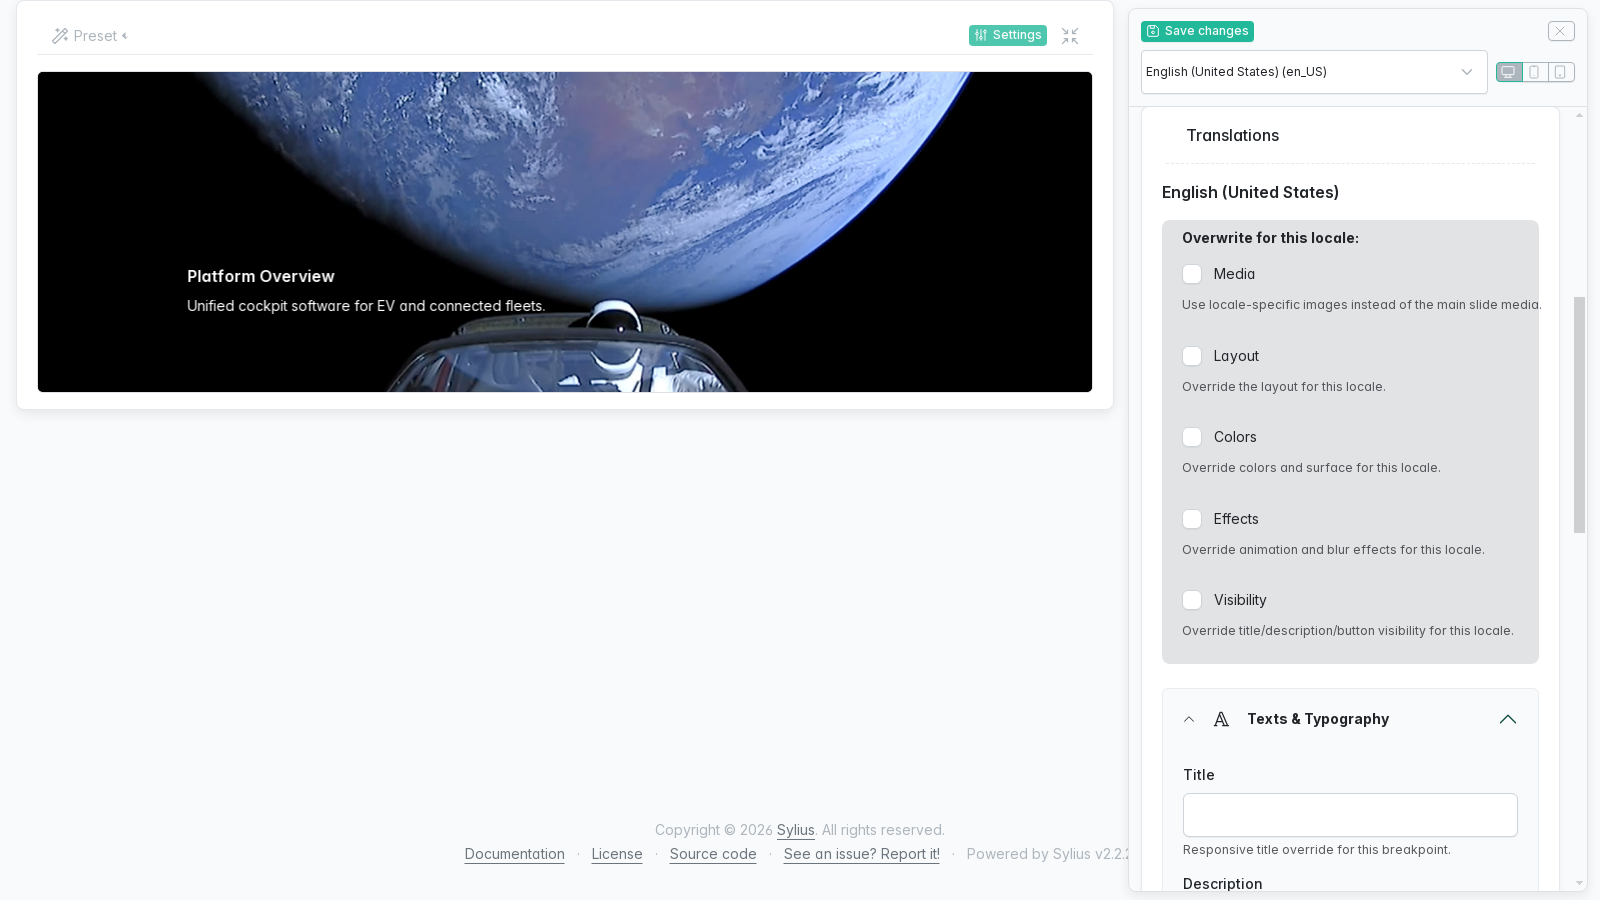
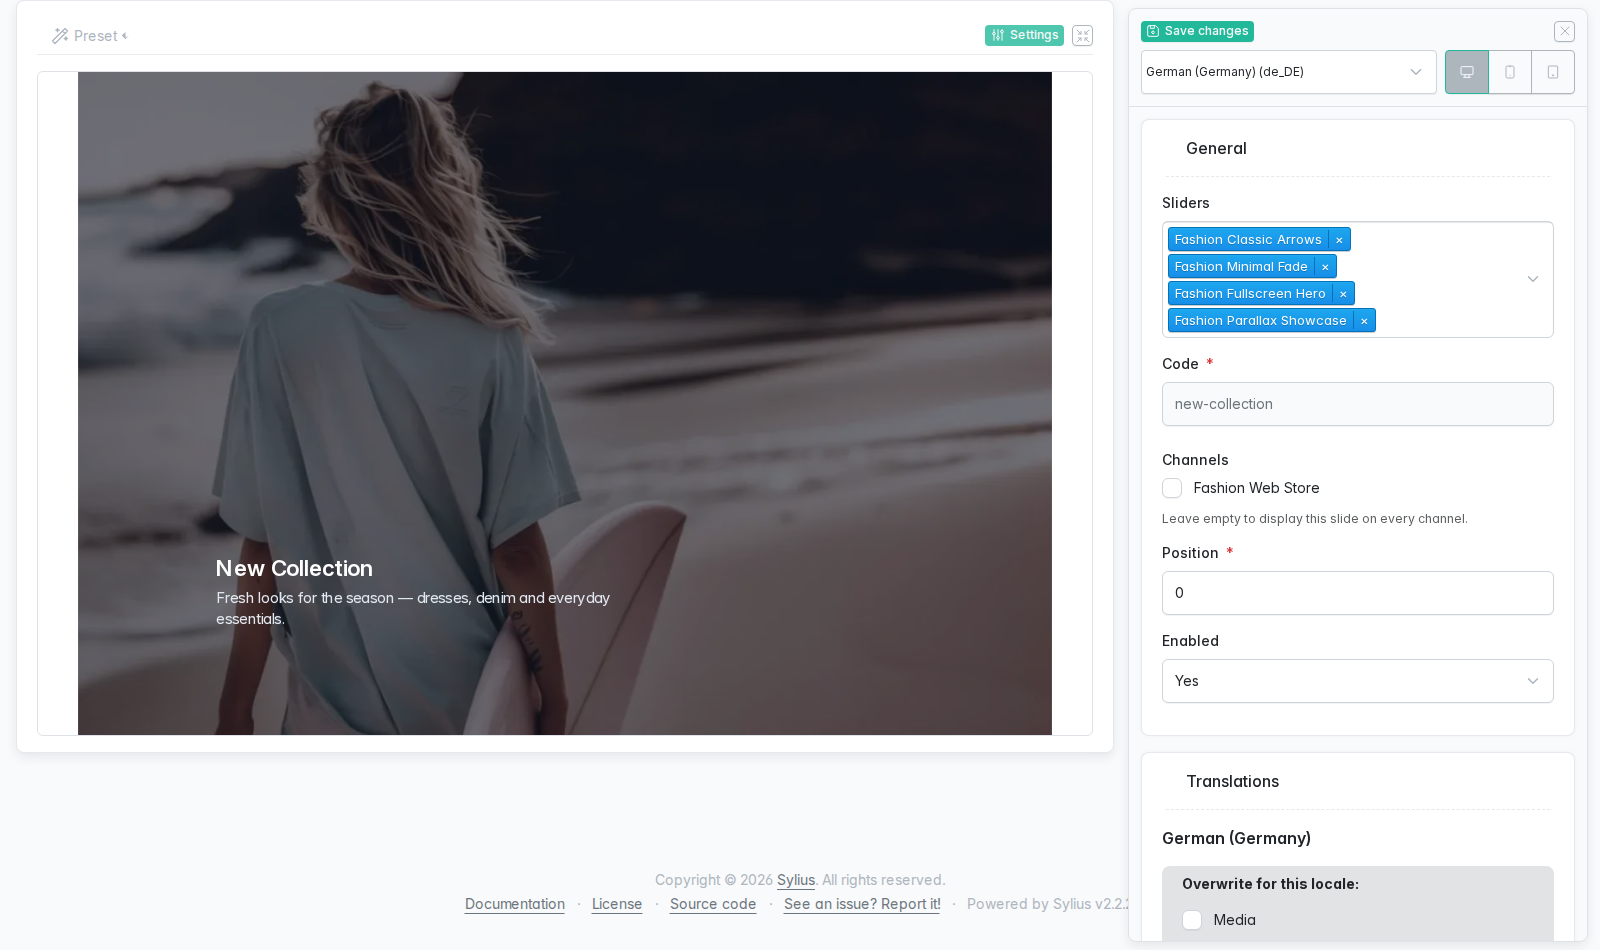
docs: generate every screenshot and GIF from Playwright
The committed doc media was hand-captured, which is why
docs/SCREENSHOTS.md referenced an `admin-slide-edit-modal.png` that had
never been taken. `make docs-media` now regenerates all 13 screenshots
and all 7 GIFs from tests/e2e/docs/*.docs.spec.ts, under fixed
conditions: APP_ENV=prod (no web debug toolbar), demo fixtures loaded,
pinned viewports, en-US, UTC, animations frozen.

GIFs are assembled by ffmpeg from explicit screenshot frames rather than
recorded as video: Playwright's .webm frame timing varies run to run, so
the same scripted interaction produced a different file every time —
useless for an asset that should only change when the UI does.
palettegen/paletteuse gives a per-clip 256-colour palette; without it a
screenshot-heavy UI bands badly.

Two traps worth naming, both now handled in the helper rather than left
for the next person to rediscover:

- ffmpeg's image2 demuxer SILENTLY DROPS frames whose dimensions differ
  from the first. A breakpoint GIF that called page.setViewportSize()
  produced a 3-frame file with no error. recordGif() now fails loudly on
  a size mismatch, and responsive-breakpoints.gif simulates the device
  width by resizing an iframe inside a fixed viewport instead.
- The Sylius admin brand image 404s in this stack (the test
  application's webpack config emits no build/admin/images/), putting a
  broken-image glyph in every admin screenshot. Images that failed to
[…]

diff --git a/tests/e2e/docs/admin.docs.spec.ts b/tests/e2e/docs/admin.docs.spec.ts
@@ -1,6 +1,6 @@
 import { expect, test } from '@playwright/test';
 
-import { loginAsAdmin, slideIdByCode, sliderIdByCode } from '../support/admin';
+import { loginAsAdmin, openSettingsDrawer, openSettingsSection, slideIdByCode, sliderIdByCode } from '../support/admin';
 import { SLIDERS, SLIDES, routes } from '../support/data';
 import { freezeMotion, hold, recordGif, shot } from './support/media';
 
@@ -55,7 +55,7 @@ test.describe('docs media: admin', () => {
         await shot(page.locator('.vanssa-preview-panel').first(), 'admin-slider-preview-panel');
 
         // Full workspace with the settings drawer open — the documented default view.
-        await page.getByRole('button', { name: 'Settings' }).first().click();
+        await openSettingsDrawer(page);
         await expect(page.locator('.vanssa-workspace')).toBeVisible();
         await page.waitForTimeout(400);
         await shot(page, 'admin-slider-edit-homepage-main');
@@ -64,10 +64,9 @@ test.describe('docs media: admin', () => {
     test('add-slides browser modal', async ({ page }) => {
         const id = await sliderIdByCode(page, SLIDERS.classicArrows);
         await page.goto(routes.adminSliderEdit(id));
-        await page.getByRole('button', { name: 'Settings' }).first().click();
+        await openSettingsDrawer(page);
 
-        const slidesSection = page.getByRole('button', { name: /Slides/i }).last();
-        await slidesSection.click();
+        await openSettingsSection(page, 'Slides');
 
         const addButton = page.getByRole('button', { name: /^Add/ }).first();
         await expect(addButton).toBeVisible();
@@ -93,7 +92,7 @@ test.describe('docs media: admin', () => {
         await shot(modal, 'admin-slide-edit-modal');
     });
 
-    test('slide edit page: preview, media settings, translations', async ({ page }) => {
+    test('slide edit page: preview and per-breakpoint media settings', async ({ page }) => {
         const id = await slideIdByCode(page, SLIDES.newCollection);
         await page.goto(routes.adminSlideEdit(id));
 
@@ -101,22 +100,27 @@ test.describe('docs media: admin', () => {
         await freezeMotion(page);
         await shot(page.locator('.vanssa-preview-panel').first(), 'admin-slide-live-preview');
 
-        await page.getByRole('button', { name: 'Settings' }).first().click();
-        await page.waitForTimeout(400);
-
-        const mediaSection = page.getByRole('button', { name: /Media|Settings/i }).first();
-        if (await mediaSection.isVisible()) {
-            await mediaSection.click();
-            await page.waitForTimeout(300);
-        }
+        await openSettingsDrawer(page);
+        await expect(page.getByText('Media & Settings').first()).toBeVisible();
         await shot(page, 'admin-slide-media-settings');
+    });
 
-        const translations = page.getByRole('button', { name: /Translations/i }).first();
-        if (await translations.isVisible()) {
-            await translations.click();
-            await page.waitForTimeout(400);
-            await shot(page, 'admin-slide-translations');
-        }
+    test('slide edit page: per-locale translations', async ({ page }) => {
+        // The Translations card is `.d-none` until the toolbar's Language
+        // dropdown selects a locale — on edit pages the form is toolbar-driven
+        // (form_context_controller), there is no per-locale accordion
+        // (templates/admin/slide/form/sections/translations.html.twig:7-27).
+        const id = await slideIdByCode(page, SLIDES.newCollection);
+        await page.goto(routes.adminSlideEdit(id));
+        await expect(page.locator('.vanssa-workspace')).toBeVisible();
+
+        await openSettingsDrawer(page);
+        await page.getByRole('combobox', { name: 'Language' }).selectOption('de_DE');
+
+        const translations = page.locator('[data-vanssa-context-locale="de_DE"]').first();
+        await expect(translations).toBeVisible();
+        await freezeMotion(page);
+        await shot(page, 'admin-slide-translations');
     });
 
     test('preset gallery on the create page', async ({ page }) => {
@@ -135,20 +139,19 @@ test.describe('docs media: admin', () => {
         await expect(page.locator('.vanssa-workspace')).toBeVisible();
         await expect(page.locator(`turbo-frame#vanssa-slider-preview-frame-${id}`)).toBeVisible();
 
-        const settings = page.getByRole('button', { name: 'Settings' }).first();
-
         await recordGif(
             page,
             'admin-workspace',
             [
                 ...hold(3),
                 async () => {
-                    await settings.click();
+                    await openSettingsDrawer(page);
                     await page.waitForTimeout(500);
                 },
                 ...hold(4),
                 async () => {
-                    await settings.click();
+                    // The drawer head's own toggle, not the toolbar one.
+                    await page.getByRole('button', { name: 'Close settings' }).first().click();
                     await page.waitForTimeout(500);
                 },
                 ...hold(2),
@@ -235,8 +238,8 @@ test.describe('docs media: admin', () => {
     test('add-slides-browser.gif — attaching slides from the browser modal', async ({ page }) => {
         const id = await sliderIdByCode(page, SLIDERS.classicArrows);
         await page.goto(routes.adminSliderEdit(id));
-        await page.getByRole('button', { name: 'Settings' }).first().click();
-        await page.getByRole('button', { name: /Slides/i }).last().click();
+        await openSettingsDrawer(page);
+        await openSettingsSection(page, 'Slides');
 
         const addButton = page.getByRole('button', { name: /^Add/ }).first();
         await expect(addButton).toBeVisible();

diff --git a/tests/e2e/docs/support/media.ts b/tests/e2e/docs/support/media.ts
@@ -24,6 +24,7 @@ const FRAME_DIR = path.join(REPO_ROOT, 'var/docs-media-frames');
  * Deliberately NOT applied to the GIF generators — motion is the point there.
  */
 export async function freezeMotion(page: Page): Promise<void> {
+    await hideBrokenImages(page);
     await page.addStyleTag({
         content: `
             *, *::before, *::after {
@@ -36,6 +37,26 @@ export async function freezeMotion(page: Page): Promise<void> {
                 scroll-behavior: auto !important;
             }
         `,
+    });
+}
+
+/**
+ * Hide images that failed to load, so a host-app asset gap does not put a
+ * broken-image glyph in the plugin's documentation.
+ *
+ * Concretely: the Sylius admin brand image is served from
+ * `/build/admin/images/sylius-logo-dark-text.png`, but the test application's
+ * webpack config emits no `images/` directory at all — the file 404s in this
+ * dev stack. That is an upstream `sylius/test-application` gap (and `vendor/`
+ * is off limits), not something a reader of these docs needs to see.
+ */
+export async function hideBrokenImages(page: Page): Promise<void> {
+    await page.evaluate(() => {
+        document.querySelectorAll('img').forEach((img) => {
+            if (img.complete && img.naturalWidth === 0) {
+                img.style.visibility = 'hidden';
+            }
+        });
     });
 }
 
@@ -77,6 +98,10 @@ export async function recordGif(
     rmSync(frames, { recursive: true, force: true });
     mkdirSync(frames, { recursive: true });
     mkdirSync(MEDIA_DIR, { recursive: true });
+
+    // Applied here rather than at each call site: every frame of every GIF
+    // wants it, and a host-app asset that 404s is never part of the story.
+    await hideBrokenImages(page);
 
     let index = 0;
     const capture = async () => {
